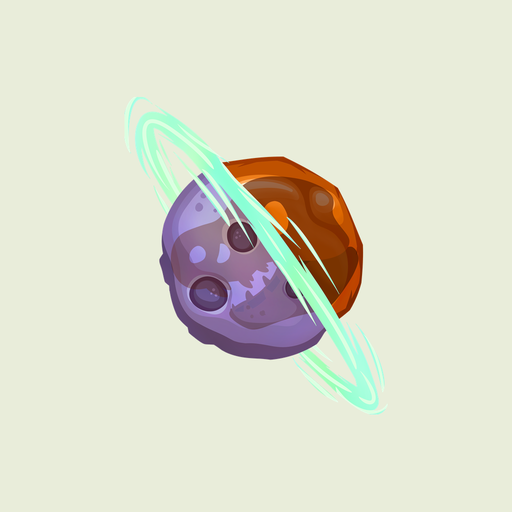
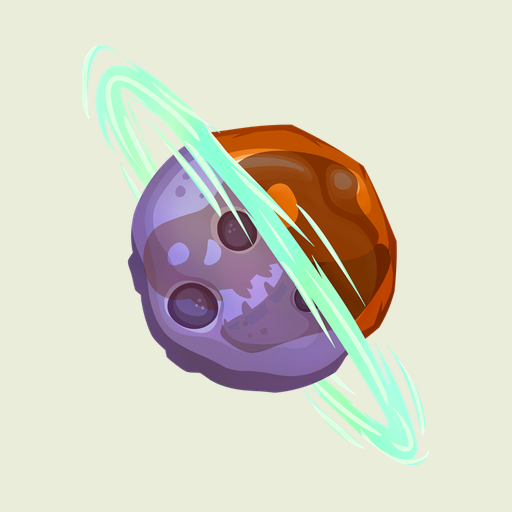
The planet takes up its whole tile now, and the dino gets a planet next to it

Changed region(s): [[0.1562, 0.0625, 0.8438, 0.9062]]

diff --git a/docs/index.html b/docs/index.html
@@ -142,7 +142,7 @@
     <h2>what's inside</h2>
     <div class="rule"></div>
     <div class="feat">
-      <div><span class="e">🦖</span><p><b>100 hand-drawn entries</b> — 50 prehistoric creatures, 50 wonders of space</p></div>
+      <div><span class="e">🦖🪐</span><p><b>100 hand-drawn entries</b> — 50 prehistoric creatures, 50 wonders of space</p></div>
       <div><span class="e">🔭</span><p><b>Scan the sky</b> — point up to find the moon, planets and bright stars tonight</p></div>
       <div><span class="e">⚔</span><p><b>Dino battles</b> — pick two creatures and see who comes out on top</p></div>
       <div><span class="e">❓</span><p><b>Quizzes</b> — a quick warm-up or the full gauntlet, with friendly explanations</p></div>
